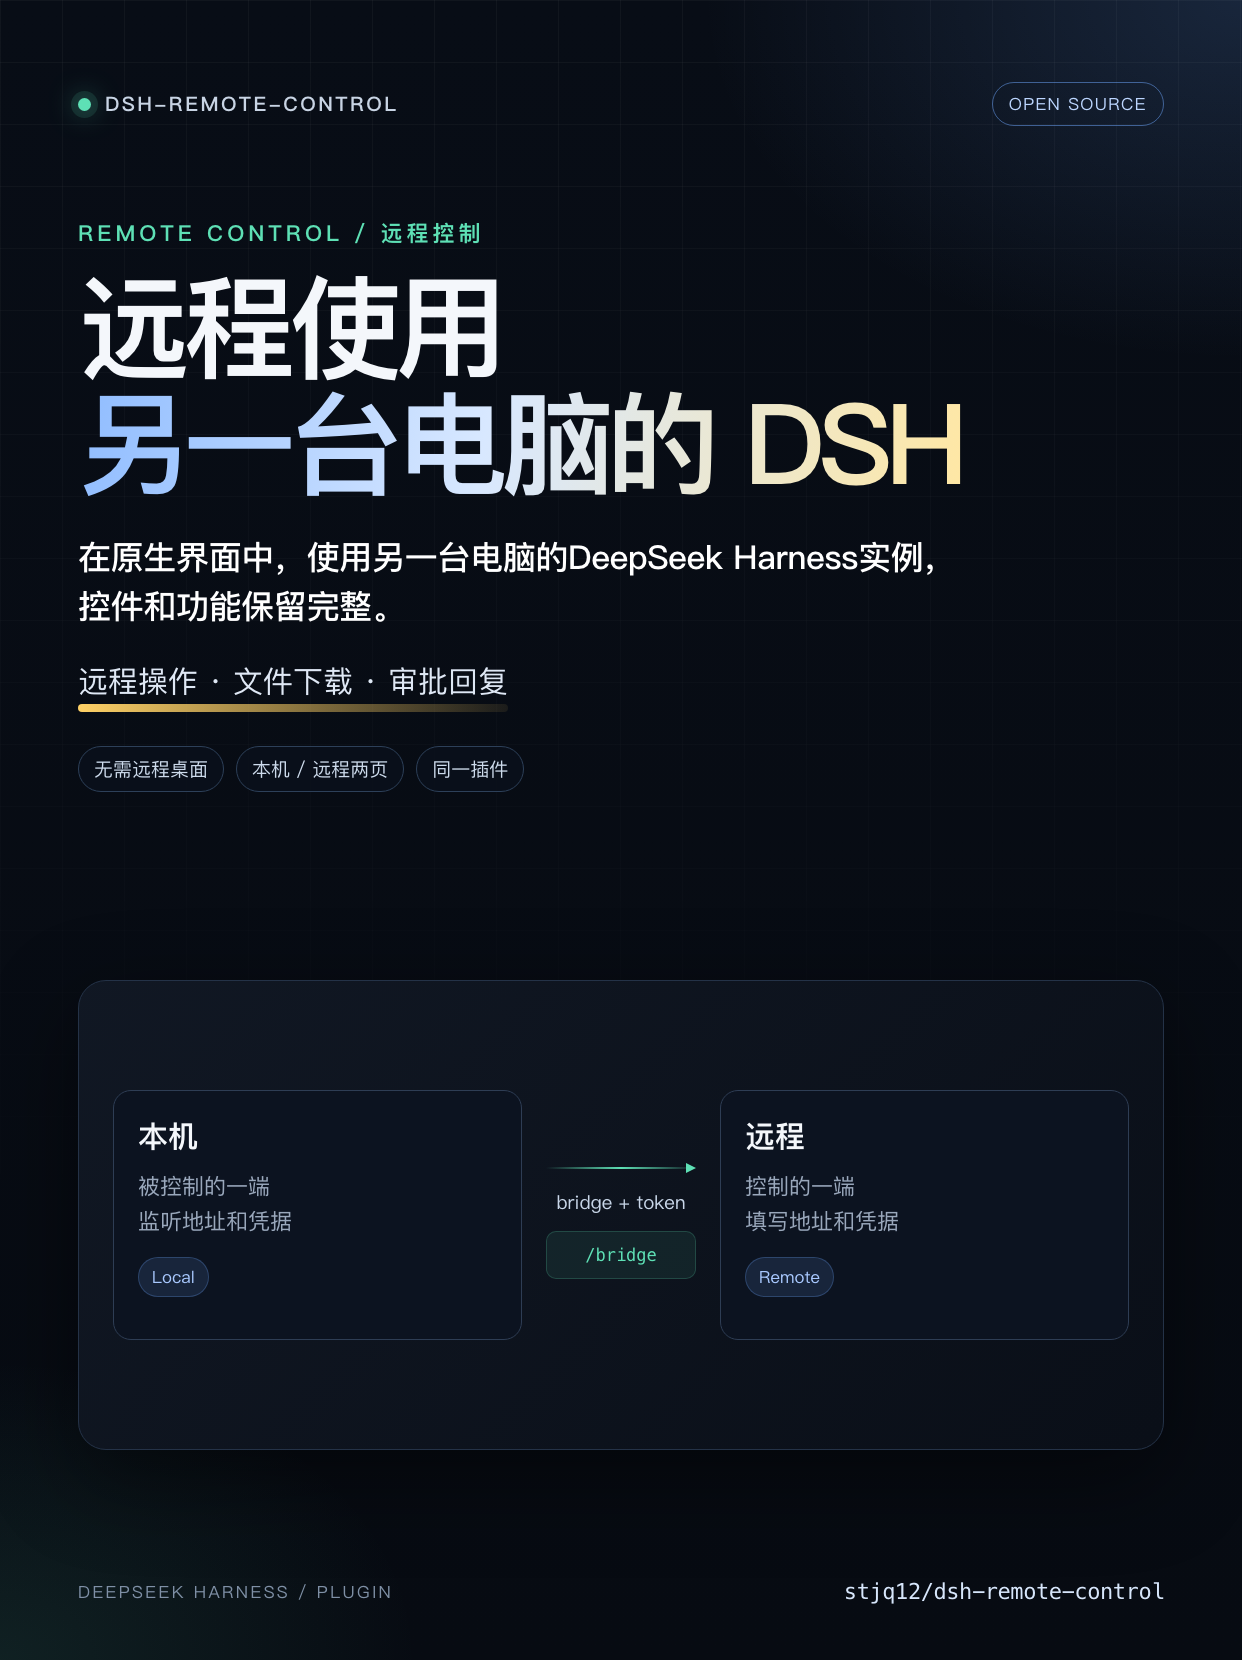
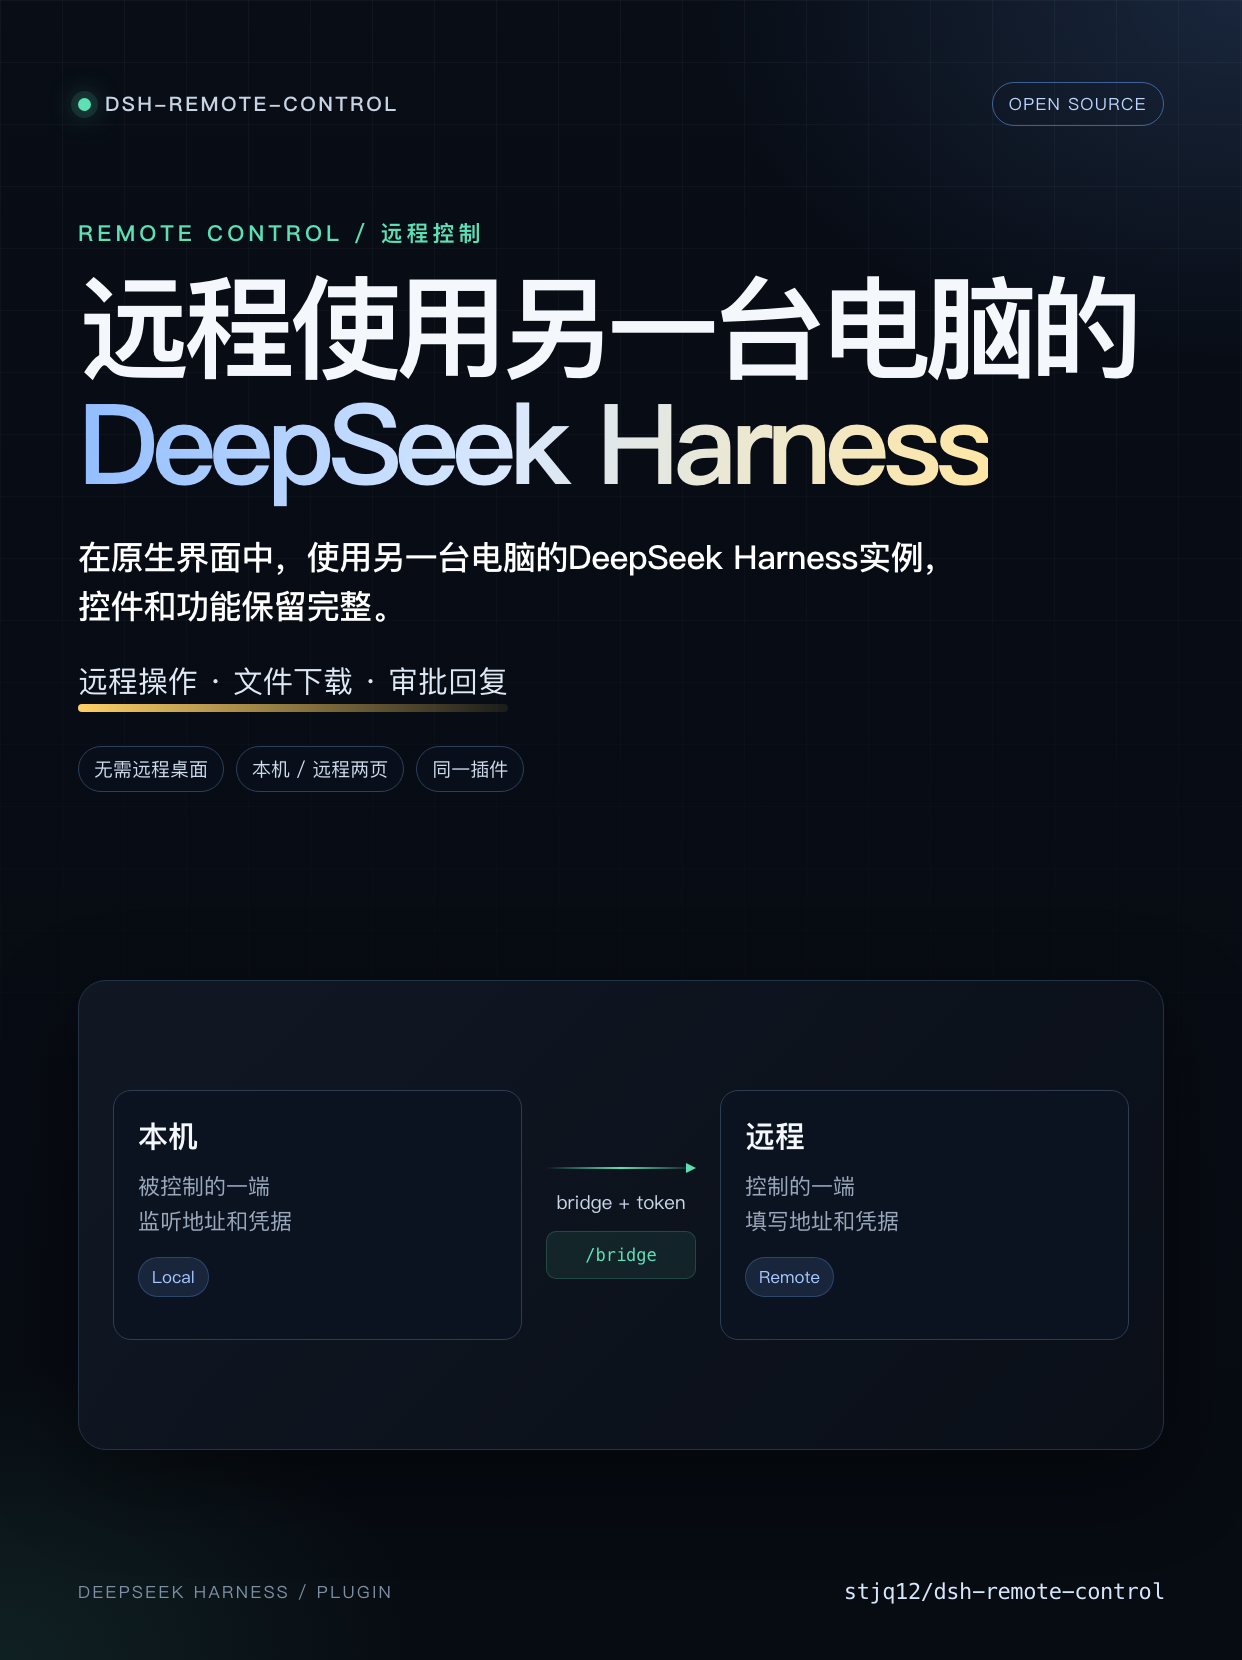
Use full DeepSeek Harness name on cover

Changed region(s): [[0.0612, 0.1536, 0.9179, 0.3072]]

diff --git a/assets/promo/xhs-copy.md b/assets/promo/xhs-copy.md
@@ -11,7 +11,7 @@
 - **人在外面，也能用家里的 DSH**（推荐）
 - 在笔记本上继续用台式机的 DSH
 - 两台电脑，共用一个 DSH
-- 远程使用另一台电脑的 DSH
+- 远程使用另一台电脑的 DeepSeek Harness
 
 ## 正文
 
